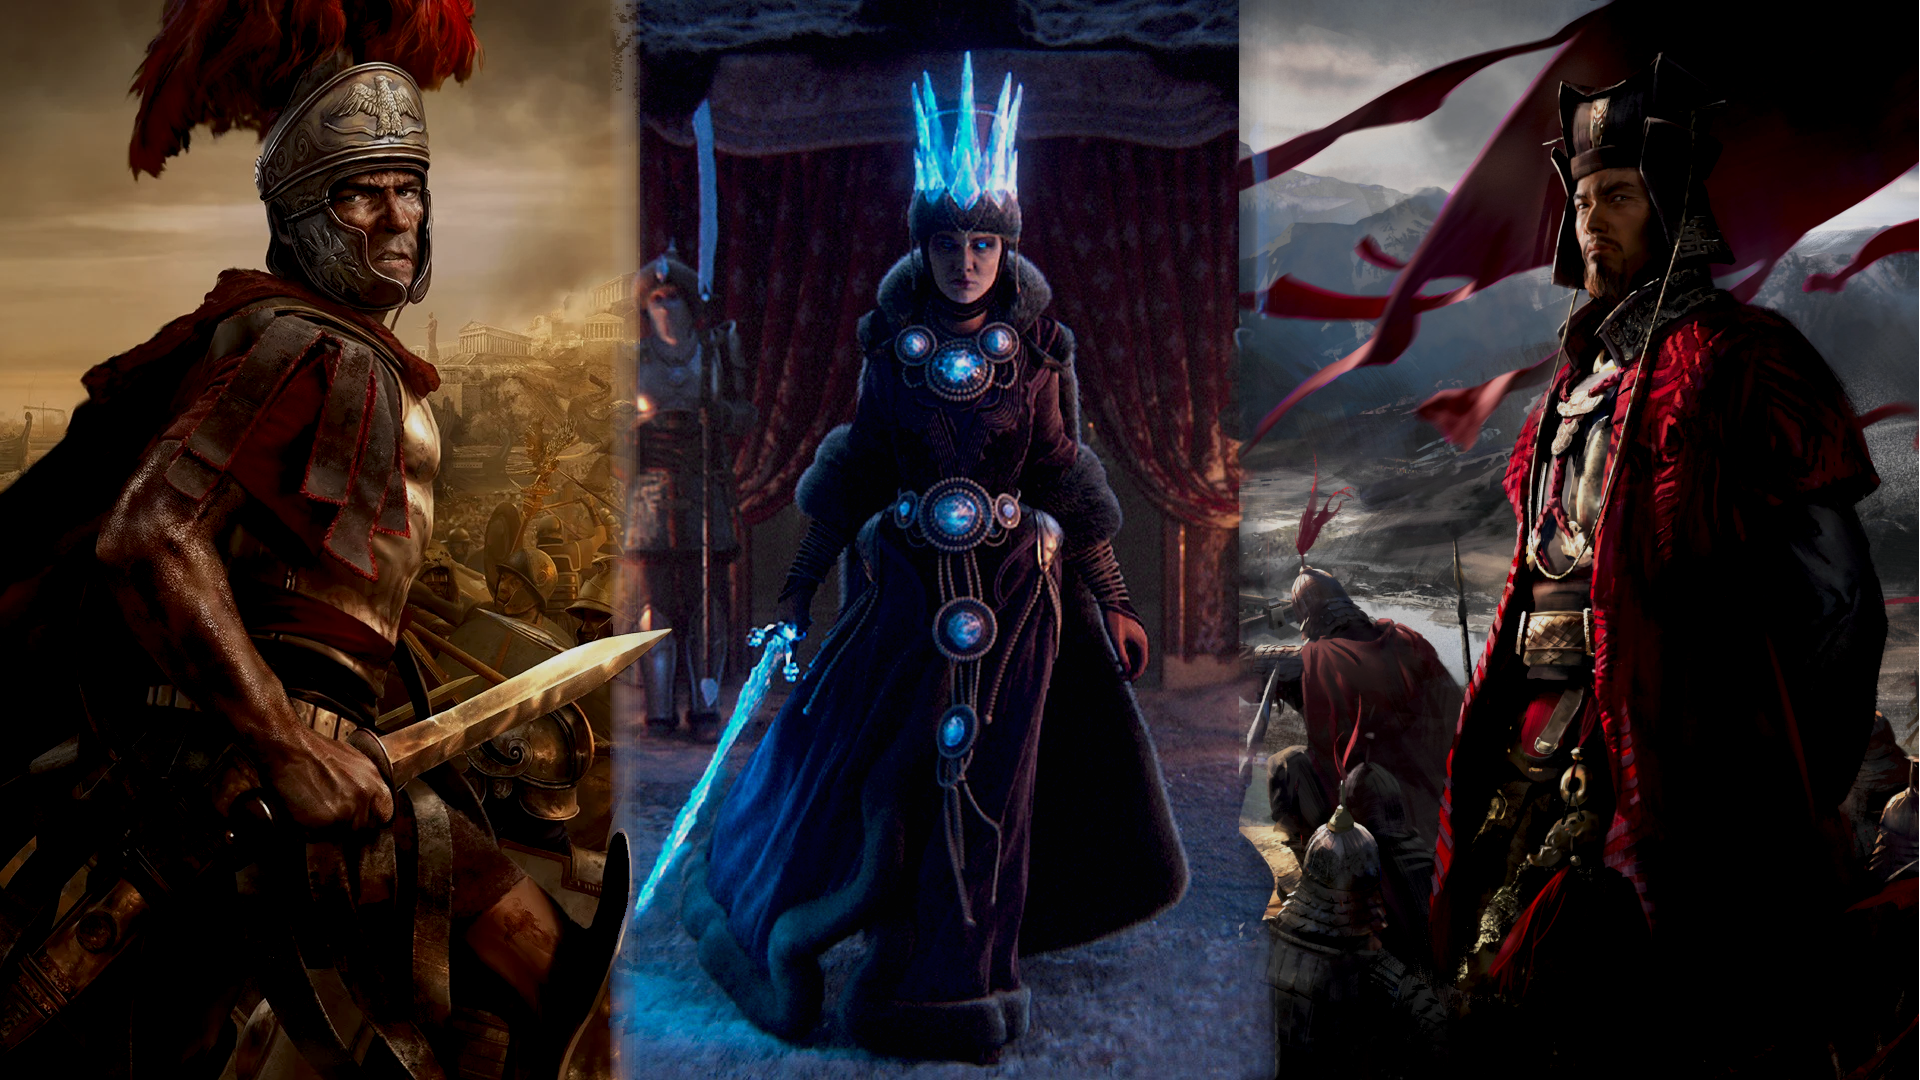
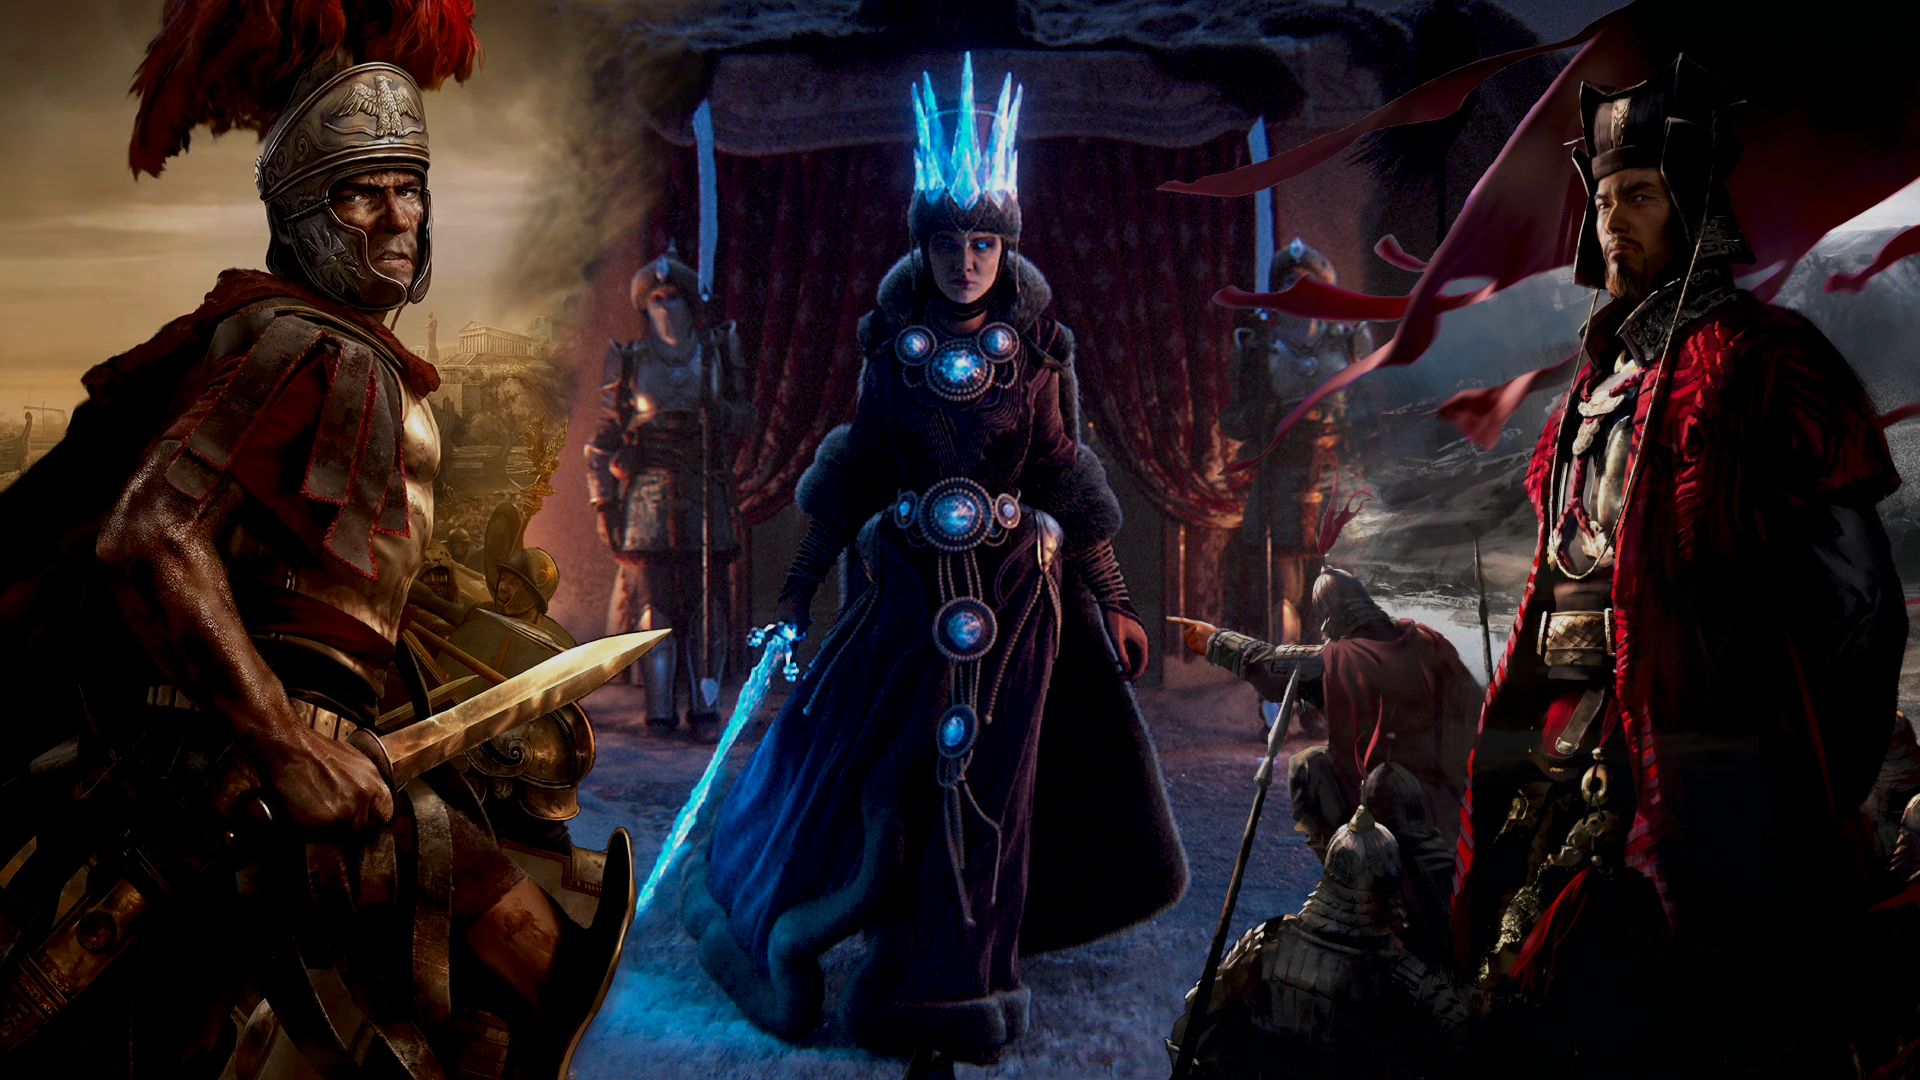
v0.0.6.1 Alpha Release
Adde background, fixed default game

diff --git a/content/ModsListFile.qml b/content/ModsListFile.qml
@@ -451,34 +451,34 @@ Item {
             font.bold: true
         }
 
-        Rectangle {
-            id: refreshButton
-            x: 980
-            width: 30
-            height: 30
-            color: "transparent"
-            MouseArea{
-                anchors.fill: parent
-                hoverEnabled: true
-                onClicked: {
-                    if(Qt.LeftButton){
-                        objModsList.refreshModlistVector();
-                        refreshModlistTo0();
-                    }
-                }
-                onEntered: {
-                    refreshButtonImage.source = "images/icons/refreshIcon64Light.png"
-                }
-                onExited: {
-                    refreshButtonImage.source = "images/icons/refreshIcon64.png"
-                }
-            }
-            Image {
-                id: refreshButtonImage
-                anchors.fill: parent
-                source: "images/icons/refreshIcon64.png"
-            }
-        }
+        //Rectangle {
+        //    id: refreshButton
+        //    x: 980
+        //    width: 30
+        //    height: 30
+        //    color: "transparent"
+        //    MouseArea{
+        //        anchors.fill: parent
+        //        hoverEnabled: true
+        //        onClicked: {
+        //            if(Qt.LeftButton){
+        //                objModsList.refreshModlistVector();
+        //                refreshModlistTo0();
+        //            }
+        //        }
+        //        onEntered: {
+        //            refreshButtonImage.source = "images/icons/refreshIcon64Light.png"
+        //        }
+        //        onExited: {
+        //            refreshButtonImage.source = "images/icons/refreshIcon64.png"
+        //        }
+        //    }
+        //    Image {
+        //        id: refreshButtonImage
+        //        anchors.fill: parent
+        //        source: "images/icons/refreshIcon64.png"
+        //    }
+        //}
 
         //Text {
         //    x: 977

diff --git a/content/App.qml b/content/App.qml
@@ -74,11 +74,6 @@ Window {
         id: qmlTopMenu
     }
 
-    SettingsModule
-    {
-        id: qmlSettingsModule
-    }
-
     ModsListFile {
         id: qmlModsList
     }
@@ -90,6 +85,11 @@ Window {
     BottomGameMenu
     {
         id: qmlBottomGameMenu
+    }
+
+    SettingsModule
+    {
+        id: qmlSettingsModule
     }
 
     InfoBox {

diff --git a/content/SettingsModule.qml b/content/SettingsModule.qml
@@ -43,7 +43,7 @@ Rectangle {
 
         onActivated: {
             qmlGameSelector.setGame(currentIndex);
-            // Add later saving as default game
+            qtGeneralBackendObj.saveDefaultGame();
         }
         x: 30 + selectDefaultGameText.implicitWidth
         y: 20

diff --git a/src/main.cpp b/src/main.cpp
@@ -56,12 +56,16 @@
  *
  *
  * ----------------------------- FINISHED 16.03.2023 + fixes for multigame support...
- * Patch 0.0.6 Until 20.03
- * - Web layer
- * - Remove consoles from view
  *
+ *
+ *
+ * Patch 0.0.6 Until 20.03
+ * - Add background for every game
+ * - Fix settings menu issues
  *
  *  Patch 0.0.7 Until 25.03
+ * - Web layer
+ * - Remove consoles from view
  * - Custom server layer
  * - Add news in right panel
  * - Game menagement
@@ -158,6 +162,16 @@ int main(int argc, char *argv[])
 
     settingsLoading();
 
+    //--------------------------------------------
+    //            Load default game
+    //--------------------------------------------
+
+    if(GlobalDataObj->LocalSettingsObj.currentGame.gameId > 0){
+        GameChanger obj;
+        obj.setCurrentGame(1000);
+    }
+
+
     //---------------------------------------------
     //                 GameChanger
     //---------------------------------------------
@@ -189,7 +203,7 @@ int main(int argc, char *argv[])
     engine.rootContext()->setContextProperty("ObjModpacksContent", &ObjModpacksContent);
 
     //--------------------------------------------
-    //                QtGeneralBackend
+    //              QtGeneralBackend
     //--------------------------------------------
 
     QtGeneralBackend qtGeneralBackendObj;
@@ -203,6 +217,16 @@ int main(int argc, char *argv[])
     engine.rootContext()->setContextProperty("ObjInfoBox", &ObjInfoBox);
 
     //--------------------------------------------
+    //            Load default game
+    //--------------------------------------------
+
+    if(GlobalDataObj->LocalSettingsObj.currentGame.gameId > 0){
+        GameChanger obj;
+        obj.setCurrentGame(1000);
+        ObjModpacksContent.modlistAmount();
+    }
+
+
 
 
     const QUrl url(u"qrc:Main/main.qml"_qs);
@@ -223,6 +247,14 @@ int main(int argc, char *argv[])
 
     if (engine.rootObjects().isEmpty()) {
         return -1;
+    }
+
+    //--------------------------------------------
+    //            Load default game
+    //--------------------------------------------
+
+    if(GlobalDataObj->LocalSettingsObj.currentGame.gameId > 0){
+        ObjModpacksContent.modlistAmount();
     }
 
     return app.exec();

diff --git a/src/qt/customModules/gamechanger.cpp b/src/qt/customModules/gamechanger.cpp
@@ -110,9 +110,15 @@ void GameChanger::setList(cGameChangerList *list)
 }
 
 void GameChanger::setCurrentGame(uint64_t index) const {
-    // Set game and clear data form previous
-    GlobalDataObj->LocalSettingsObj.currentGame = GlobalDataObj->LocalSettingsObj.installedGames[index];
-    GlobalDataObj->ModsDataObj.clear();
+    if(index == 1000){
+        GlobalDataObj->ModsDataObj.clear();
+    }
+    else
+    {
+        // Set game and clear data form previous
+        GlobalDataObj->LocalSettingsObj.currentGame = GlobalDataObj->LocalSettingsObj.installedGames[index];
+        GlobalDataObj->ModsDataObj.clear();
+    }
 
     if(std::filesystem::exists("steam_appid.txt"))
     {

diff --git a/src/localfiles/localfiles.cpp b/src/localfiles/localfiles.cpp
@@ -155,7 +155,7 @@ void localFiles::loadLocalSettings()
                 {
                     std::string show;
                     getline(file, show);
-                    if(show.length() > 4){
+                    if(show.length() > 2){
                         GlobalDataObj->LocalSettingsObj.defaultGame = std::stoi(show);
                         GlobalDataObj->LocalSettingsObj.currentGame = *GlobalDataObj->getGameById(std::stoi(show));
                     }

diff --git a/src/qtgeneralbackend.cpp b/src/qtgeneralbackend.cpp
@@ -379,6 +379,10 @@ void QtGeneralBackend::closeApp(){
     exit(EXIT_FAILURE);
 }
 
+void QtGeneralBackend::saveDefaultGame(){
+    GlobalDataObj->LocalSettingsObj.defaultGame = GlobalDataObj->LocalSettingsObj.currentGame.gameId;
+}
+
 int QtGeneralBackend::getCurrentGameId() const {
     return GlobalDataObj->LocalSettingsObj.currentGame.gameId;
 }

diff --git a/src/qtgeneralbackend.h b/src/qtgeneralbackend.h
@@ -28,6 +28,7 @@ public:
     Q_INVOKABLE void closeSteamAPIIfOn();
 
     Q_INVOKABLE void closeApp();
+    Q_INVOKABLE void saveDefaultGame();
 
     int getCurrentGameId() const;
     void setCurrentGameId(int id);
